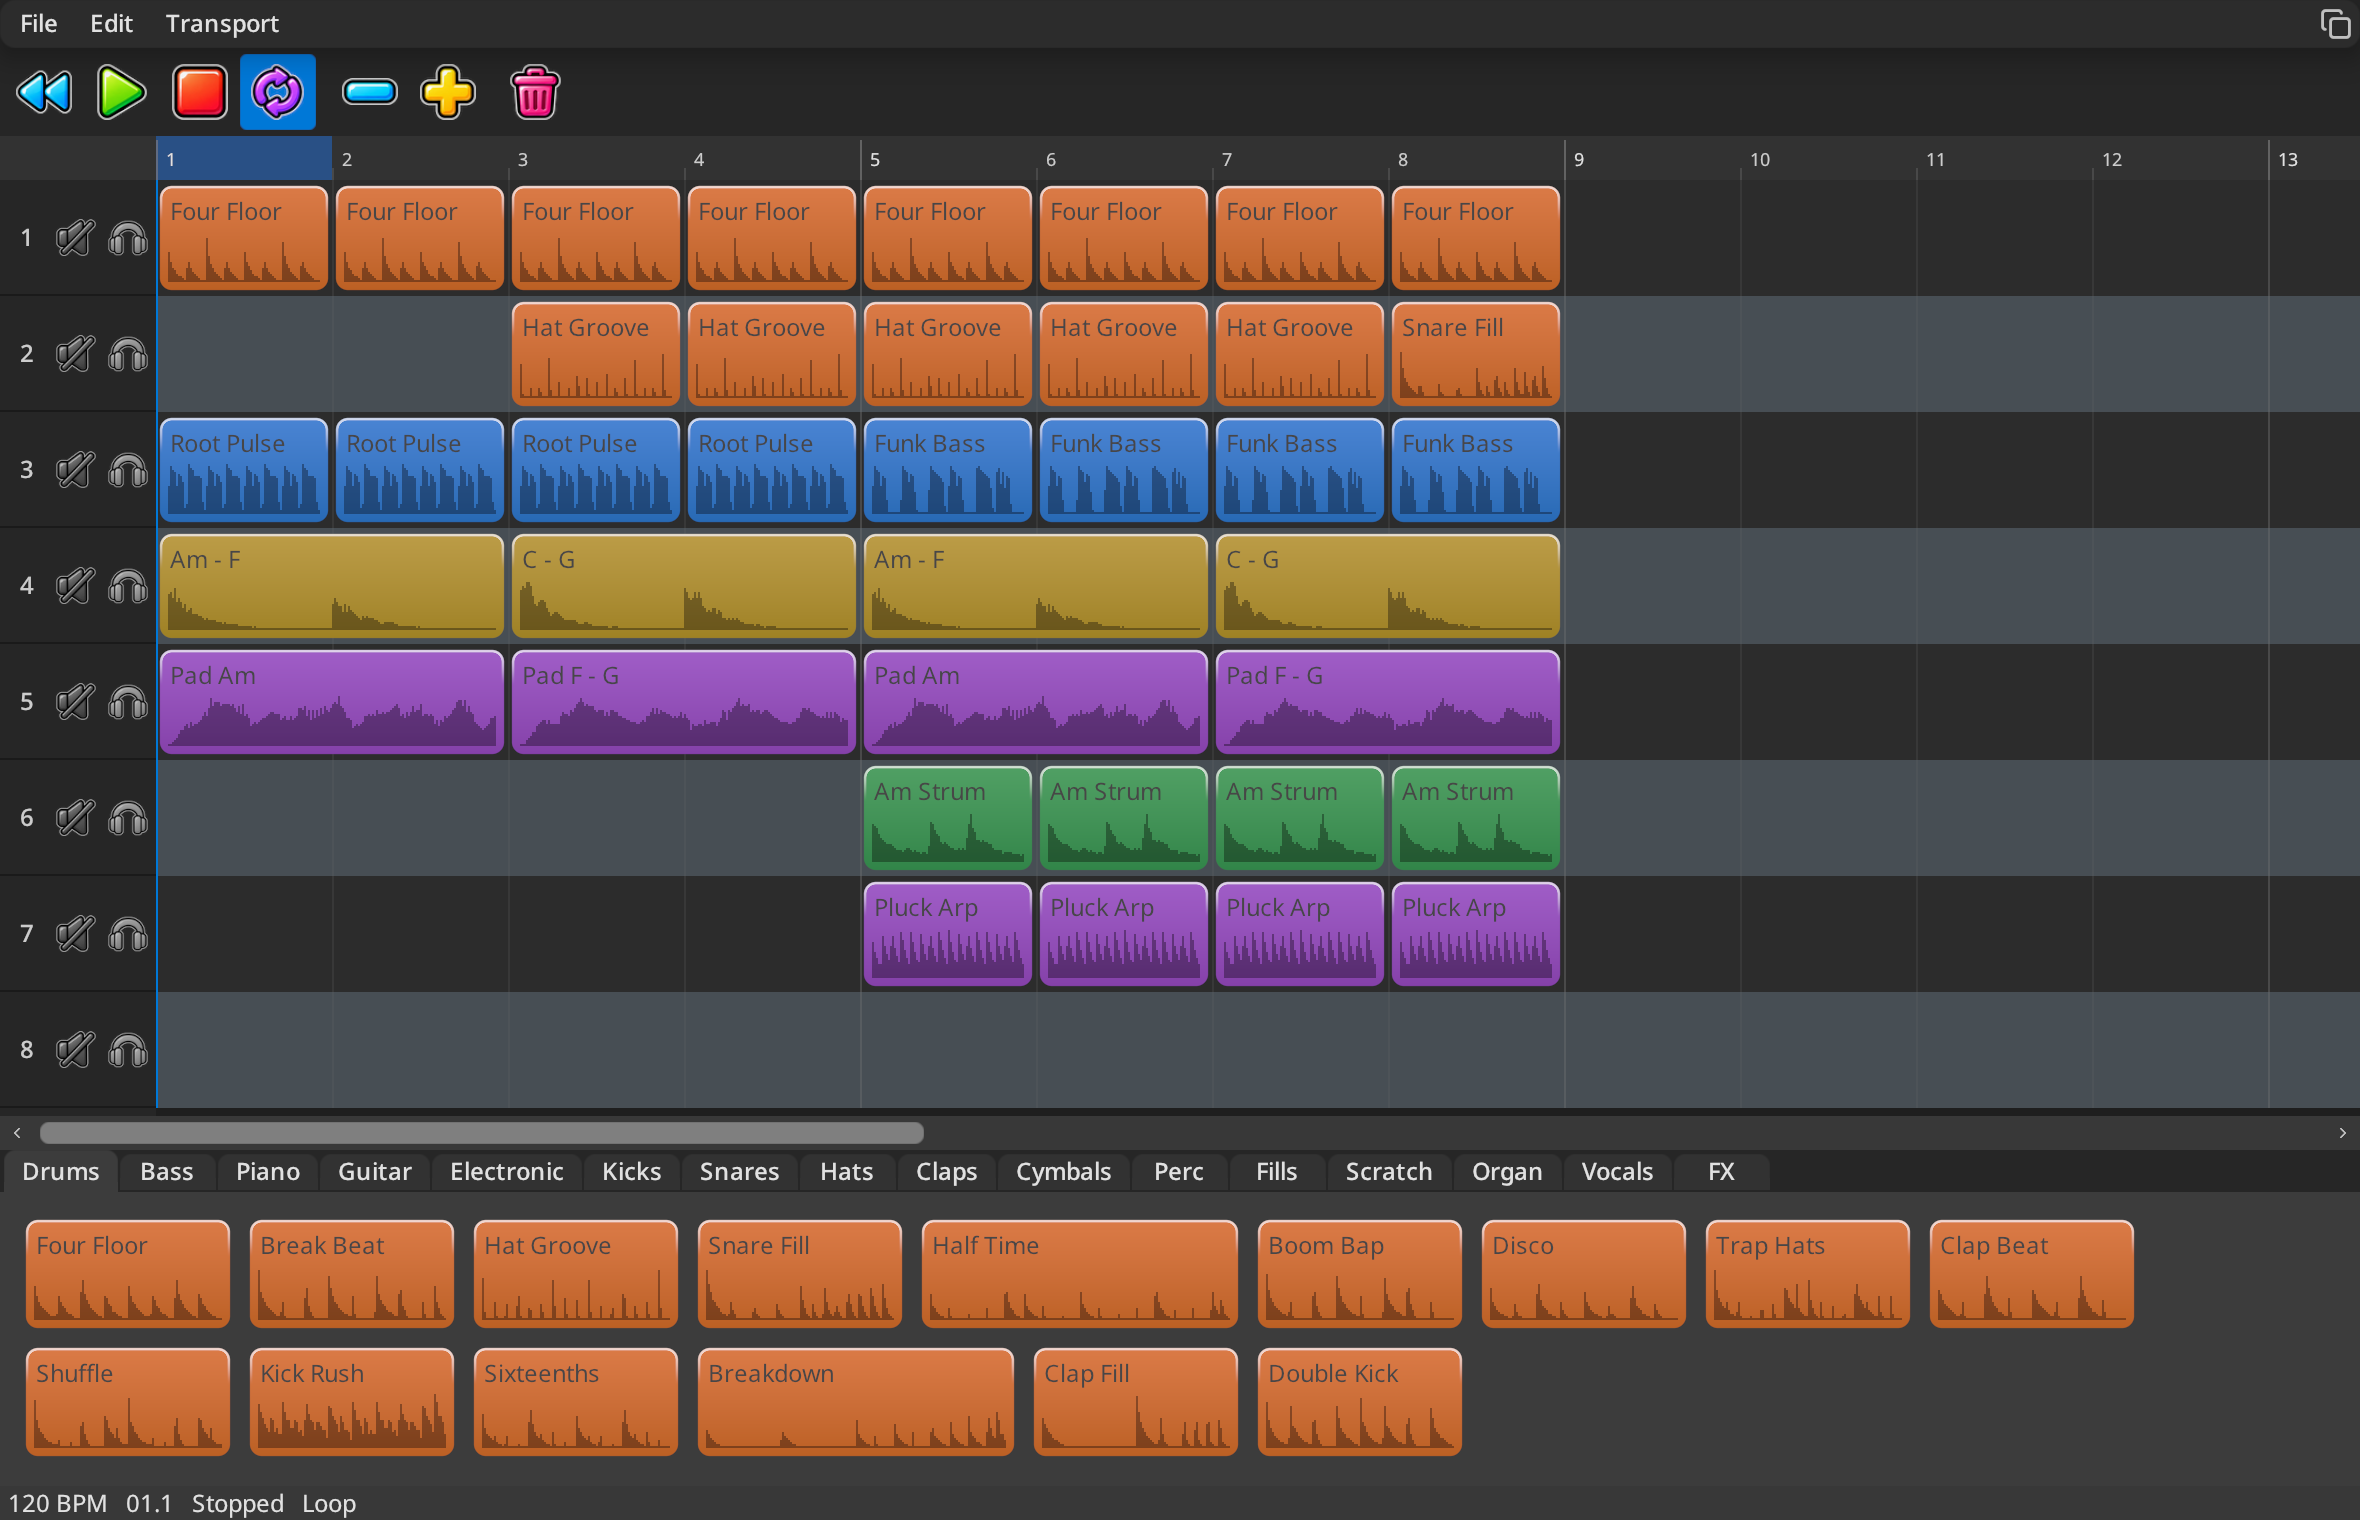
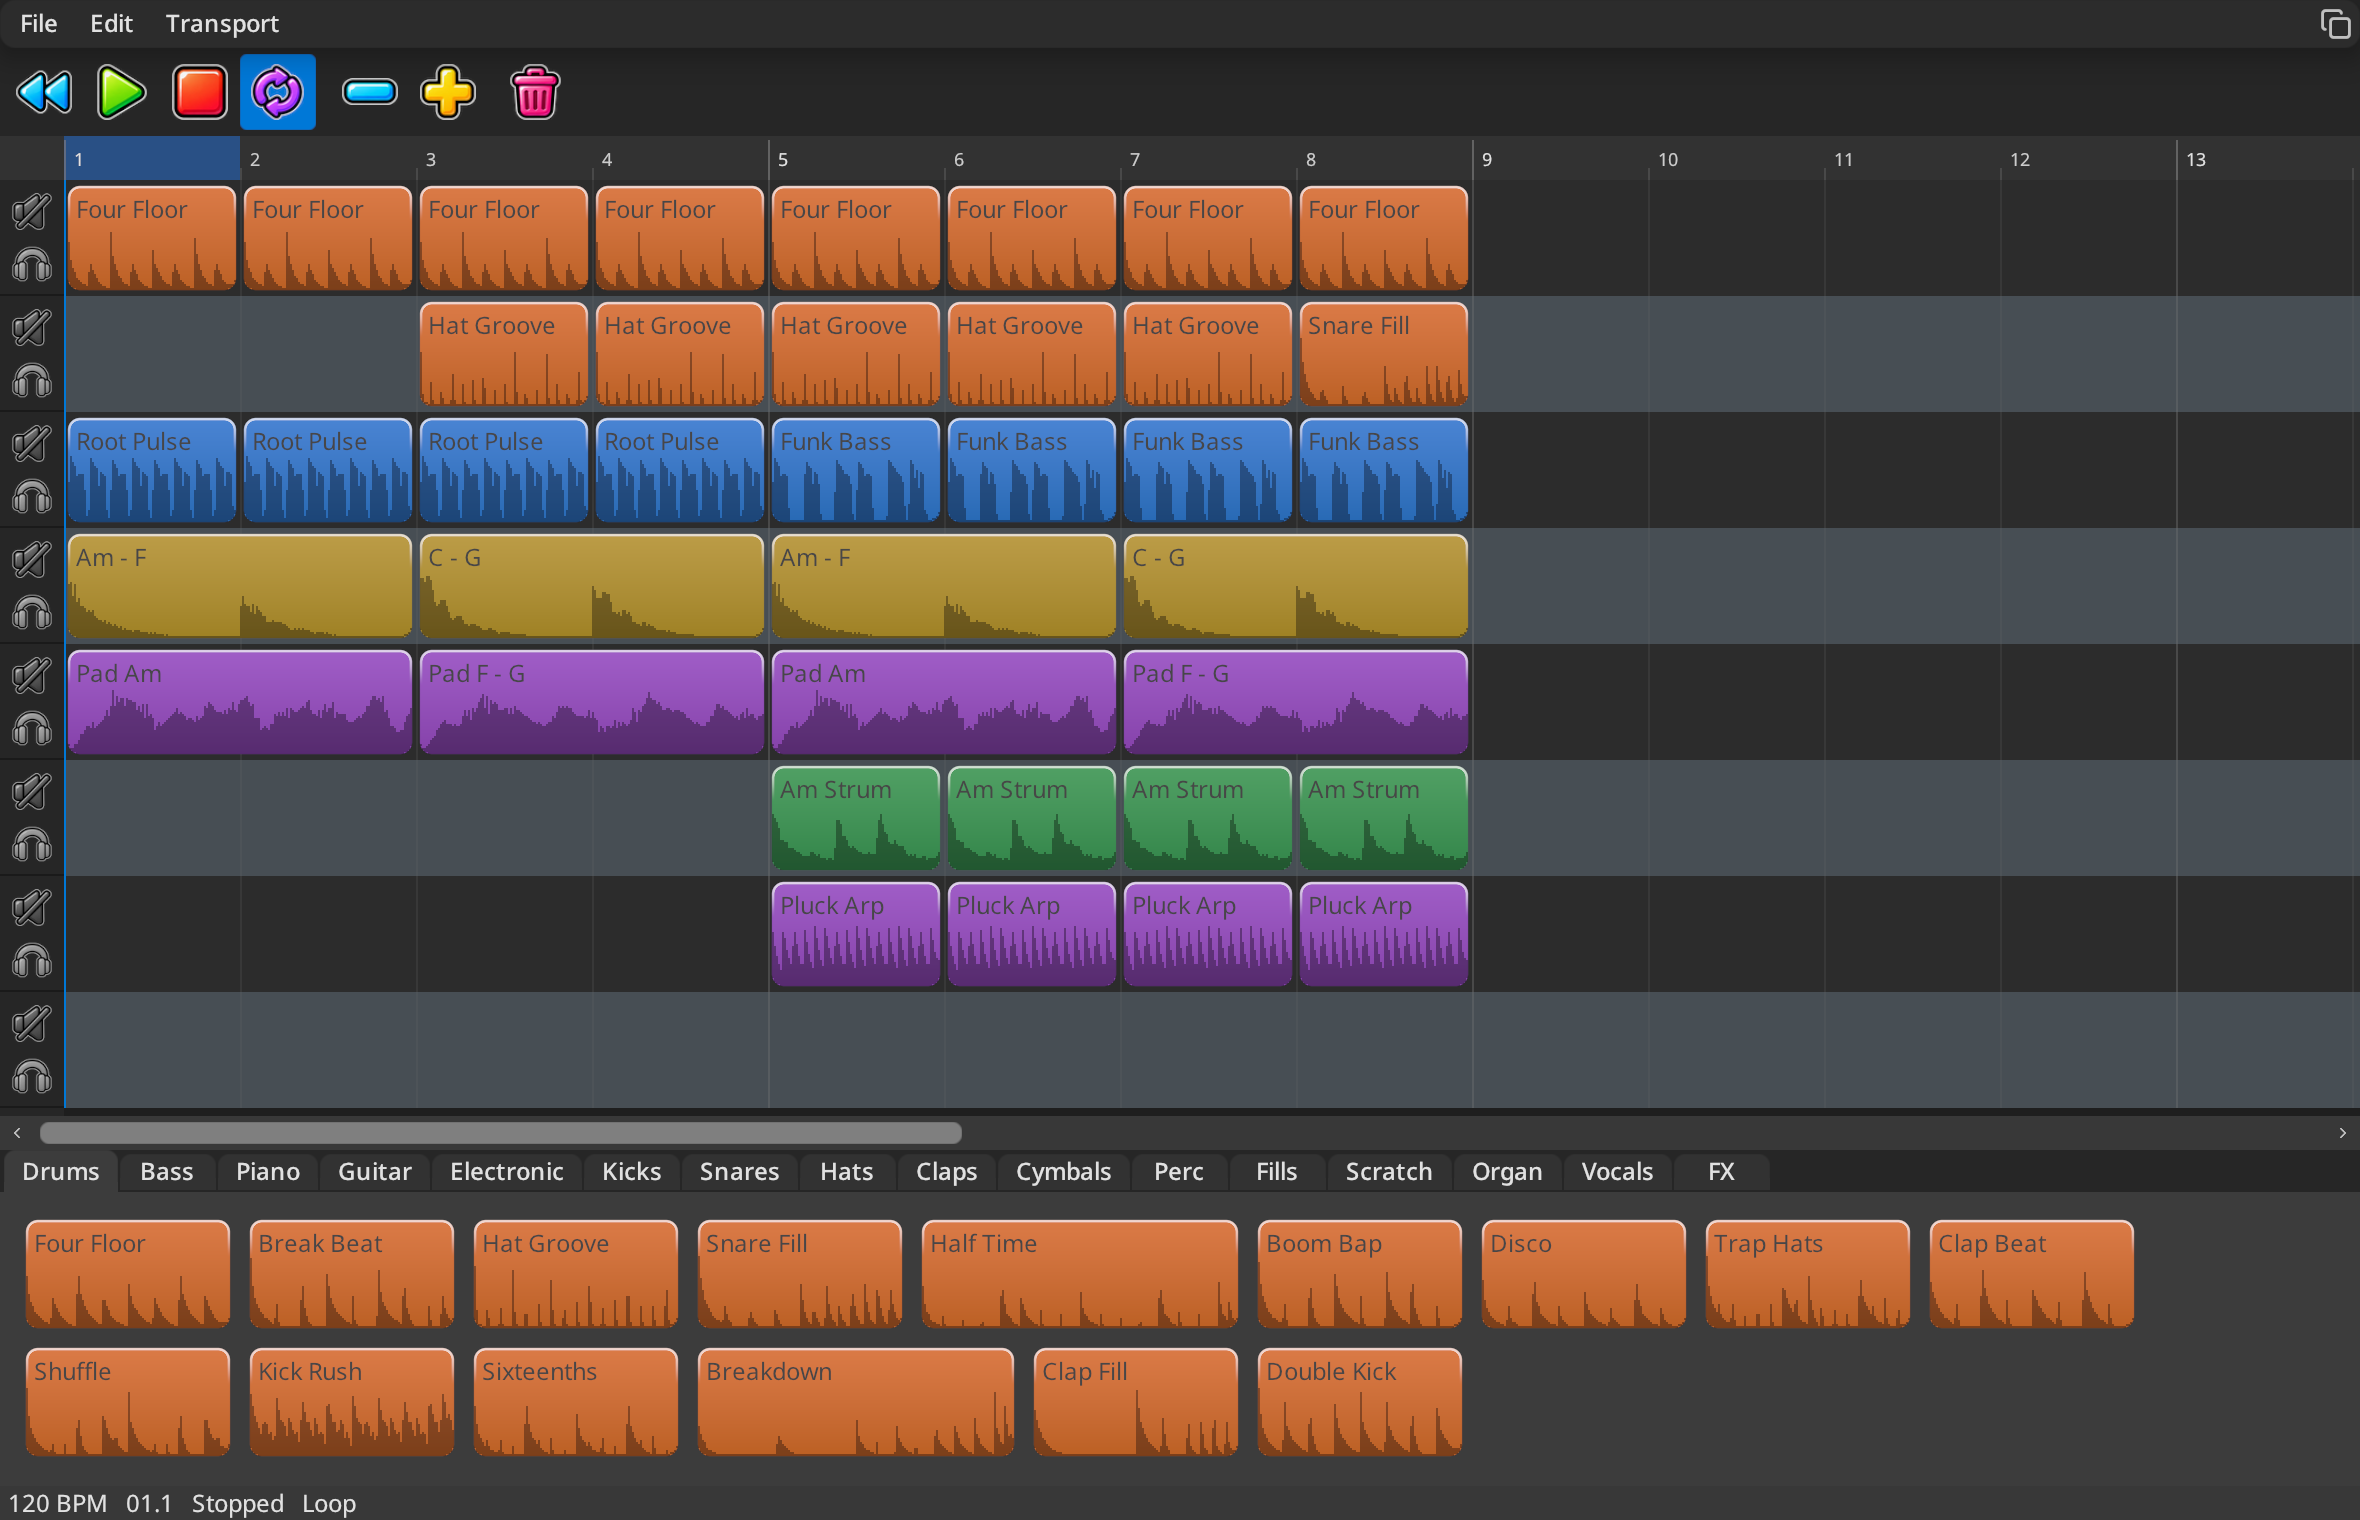
Stack track controls and fix tracked-window shutdown

diff --git a/apps/groove/tests/groove_test.c b/apps/groove/tests/groove_test.c
@@ -97,7 +97,7 @@ static void test_sheet_drop(void) {
   show_window(win, true);
   int before = g_app->song.nclips;
   int track = 7, bar = 10;
-  int sx = window_screen_x(g_app->sheet) + 78 + bar * 88 + 20;
+  int sx = window_screen_x(g_app->sheet) + GR_SHEET_HEADER_W + bar * 88 + 20;
   int row = CLAMP((get_client_rect(g_app->sheet).h - 22) / GR_TRACKS, 26, 64);
   int sy = window_screen_y(g_app->sheet) + 22 + track * row + row / 2;
   g_app->drag = (drag_t){ .active = true, .block = 0, .from_clip = -1, .track = -1 };
@@ -129,7 +129,7 @@ static void test_two_finger_sheet_pan(void) {
   show_window(win, true);
   int clip = song_add_clip(&g_app->song, 0, 0, 0);
   window_t *sheet = g_app->sheet;
-  int sx = window_screen_x(sheet) + 110, sy = window_screen_y(sheet) + 40;
+  int sx = window_screen_x(sheet) + GR_SHEET_HEADER_W + 32, sy = window_screen_y(sheet) + 40;
   ui_event_t event = {.message = kEventLeftButtonDown, .x = sx * UI_WINDOW_SCALE, .y = sy * UI_WINDOW_SCALE};
   dispatch_message(&event);
   ASSERT_TRUE(g_ui_runtime.captured == sheet);
@@ -154,17 +154,20 @@ static void test_two_finger_sheet_pan(void) {
   ASSERT_EQUAL(g_app->song.preview_block, -1);
   event.gesture.phase = AX_GESTURE_END;
   dispatch_message(&event);
+  int row = CLAMP((get_client_rect(sheet).h - 22) / GR_TRACKS, 26, 64);
+  int size = MIN(24, (row - 4) / 2), mute_y = 22 + (row - size * 2 - 2) / 2 + size / 2;
   event = (ui_event_t){.message = kEventLeftButtonDown,
-    .x = (window_screen_x(sheet) + 38) * UI_WINDOW_SCALE, .y = sy * UI_WINDOW_SCALE};
+    .x = (window_screen_x(sheet) + GR_SHEET_HEADER_W / 2) * UI_WINDOW_SCALE,
+    .y = (window_screen_y(sheet) + mute_y) * UI_WINDOW_SCALE};
   dispatch_message(&event);
   ASSERT_TRUE(g_app->song.mute[0]);
   event.message = kEventLeftButtonUp;
   dispatch_message(&event);
   char tooltip[256] = {0};
-  ASSERT_TRUE(send_message(sheet, evGetTooltipText, MAKEDWORD(38 + get_scroll_pos(sheet, SB_HORZ), 40), tooltip));
+  ASSERT_TRUE(send_message(sheet, evGetTooltipText, MAKEDWORD(GR_SHEET_HEADER_W / 2 + get_scroll_pos(sheet, SB_HORZ), mute_y), tooltip));
   ASSERT_TRUE(strcmp(tooltip, "Unmute track 1") == 0);
   event.message = kEventLeftButtonDown;
-  event.x = (window_screen_x(sheet) + 64) * UI_WINDOW_SCALE;
+  event.y += (size + 2) * UI_WINDOW_SCALE;
   dispatch_message(&event);
   ASSERT_TRUE(g_app->song.solo[0]);
   event.message = kEventLeftButtonUp;
@@ -173,7 +176,7 @@ static void test_two_finger_sheet_pan(void) {
   ASSERT_EQUAL(g_app->song.preview_block, -1);
   ASSERT_FALSE(g_app->drag.active);
   event = (ui_event_t){.message = kEventLeftButtonDown,
-    .x = (window_screen_x(sheet) + 78 + 2) * UI_WINDOW_SCALE, .y = sy * UI_WINDOW_SCALE};
+    .x = (window_screen_x(sheet) + GR_SHEET_HEADER_W + 2) * UI_WINDOW_SCALE, .y = sy * UI_WINDOW_SCALE};
   dispatch_message(&event);
   ASSERT_EQUAL(g_app->selected_clip, clip);
   event.message = kEventPointerCancel;

diff --git a/tests/cleanup_test.c b/tests/cleanup_test.c
@@ -3,6 +3,7 @@
 // to verify that all resources are properly freed.
 
 #include "test_framework.h"
+#include "test_env.h"
 #include <orion/ui.h>
 #include <stdio.h>
 #include <stdbool.h>
@@ -17,19 +18,42 @@ void test_basic_init_shutdown(void) {
   PASS();
 }
 
+static bool leave_before_destroy;
+static int leave_count, destroy_count;
+
+static result_t cleanup_window_proc(window_t *win, uint32_t msg, uint32_t wp, void *lp) {
+  (void)wp; (void)lp;
+  switch (msg) {
+    case evCreate: return allocate_window_data(win, sizeof(int)) != NULL;
+    case evPaint: return true;
+    case evMouseLeave: leave_count++; leave_before_destroy = win->userdata != NULL; return true;
+    case evDestroy: destroy_count++; free(win->userdata); win->userdata = NULL; return true;
+    default: return false;
+  }
+}
+
 // Test that window destruction cleans up properly
 void test_window_cleanup(void) {
-  TEST("Window cleanup verification");
-  
-  // We can't test this without a display, but we can verify the logic
-  // The destroy_window function should:
-  // 1. Free toolbar_buttons if allocated
-  // 2. Remove from global lists
-  // 3. Remove from hooks
-  // 4. Remove from message queue
-  // 5. Clear children
-  // 6. Free the window structure
-  
+  TEST("Destruction sends mouse leave before releasing control state");
+  test_env_init();
+  leave_before_destroy = false;
+  leave_count = destroy_count = 0;
+  window_t *root = create_window("root", WINDOW_NOTITLE, MAKERECT(0, 0, 200, 100), NULL, cleanup_window_proc, 0, NULL);
+  ASSERT_NOT_NULL(root);
+  window_t *child = create_window("child", WINDOW_NOTITLE, MAKERECT(0, 0, 80, 40), root, cleanup_window_proc, 0, NULL);
+  ASSERT_NOT_NULL(child);
+  set_focus(child);
+  track_mouse(child);
+  set_capture(child);
+  destroy_window(root);
+  ASSERT_TRUE(leave_before_destroy);
+  ASSERT_EQUAL(leave_count, 1);
+  ASSERT_EQUAL(destroy_count, 2);
+  ASSERT_TRUE(g_ui_runtime.tracked == NULL);
+  ASSERT_TRUE(g_ui_runtime.focused == NULL);
+  ASSERT_TRUE(g_ui_runtime.captured == NULL);
+  ASSERT_TRUE(g_ui_runtime.windows == NULL);
+  test_env_shutdown();
   PASS();
 }
 

diff --git a/apps/groove/view_sheet.c b/apps/groove/view_sheet.c
@@ -9,7 +9,7 @@
 
 #include "groove.h"
 
-#define HDR_W      78
+#define HDR_W      GR_SHEET_HEADER_W
 #define RULER_H    22
 #define BAR_W      88
 #define MIN_ROW    26
@@ -26,8 +26,15 @@ static int  floordiv(int a, int b) { return a >= 0 ? a / b : -((-a + b - 1) / b)
 static int  bar_x(window_t *win, int bar)  { return HDR_W + bar * BAR_W - hpos(win); }
 static int  track_y(window_t *win, int t)  { return RULER_H + t * row_h(win); }
 static irect16_t grid_rect(window_t *win)  { irect16_t cr = get_client_rect(win); return R(HDR_W, RULER_H, cr.w - HDR_W, row_h(win) * GR_TRACKS); }
-static irect16_t mute_rect(window_t *win, int t) { return rect_center(R(HDR_W - 52, track_y(win, t), 24, row_h(win)), 24, 24); }
-static irect16_t solo_rect(window_t *win, int t) { return rect_offset(mute_rect(win, t), 26, 0); }
+static irect16_t mute_rect(window_t *win, int t) {
+  int size = MIN(24, (row_h(win) - 4) / 2);
+  irect16_t pair = rect_center(R(0, track_y(win, t), HDR_W, row_h(win)), size, size * 2 + 2);
+  return rect_split_top(pair, size);
+}
+static irect16_t solo_rect(window_t *win, int t) {
+  irect16_t mute = mute_rect(win, t);
+  return rect_offset(mute, 0, mute.h + 2);
+}
 
 static uint32_t load_track_icons(window_t *win) {
   if (!g_ui_runtime.running) return 0;
@@ -179,10 +186,7 @@ static void paint_headers(window_t *win) {
   fill_rect(get_sys_color(brPanelDarker), R(0, RULER_H, HDR_W, cr.h - RULER_H));
   for (int t = 0; t < GR_TRACKS; t++) {
     int y = track_y(win, t), rh = row_h(win);
-    char num[8];
-    snprintf(num, sizeof(num), "%d", t + 1);
     fill_rect(get_sys_color(brDarkEdge), R(0, y + rh - 1, HDR_W, 1));
-    draw_text(FONT_SYSTEM, num, 10, y + (rh - text_char_height(FONT_SYSTEM)) / 2, get_sys_color(brTextSecondary));
     irect16_t m = mute_rect(win, t), s = solo_rect(win, t);
     draw_track_toggle(win, m, 0, g_app->song.mute[t]);
     draw_track_toggle(win, s, 1, g_app->song.solo[t]);

diff --git a/orion/user/window.c b/orion/user/window.c
@@ -502,10 +502,10 @@ void destroy_window(window_t *win) {
     set_host_page(win, NULL);
   if (win->role == WINDOW_ROLE_PAGE && win->page_host)
     set_host_page(win->page_host, NULL);
+  if (g_ui_runtime.tracked == win) track_mouse(NULL);
   send_message(win, evDestroy, 0, NULL);
   if (g_ui_runtime.focused == win) set_focus(NULL);
   if (g_ui_runtime.captured == win) set_capture(NULL);
-  if (g_ui_runtime.tracked == win) track_mouse(NULL);
   if (g_ui_runtime.tracked_toolbar == win) g_ui_runtime.tracked_toolbar = NULL;
   if (g_ui_runtime.dragging == win) g_ui_runtime.dragging = NULL;
   if (g_ui_runtime.resizing == win) g_ui_runtime.resizing = NULL;

diff --git a/apps/groove/groove.h b/apps/groove/groove.h
@@ -23,6 +23,7 @@
 #define GR_SAMPLE_RATE  44100
 #define GR_BEATS_BAR    4
 #define GR_TRACKS       8
+#define GR_SHEET_HEADER_W 32
 #define GR_BARS         32
 #define GR_MAX_BLOCKS   128
 #define GR_MAX_CLIPS    256
